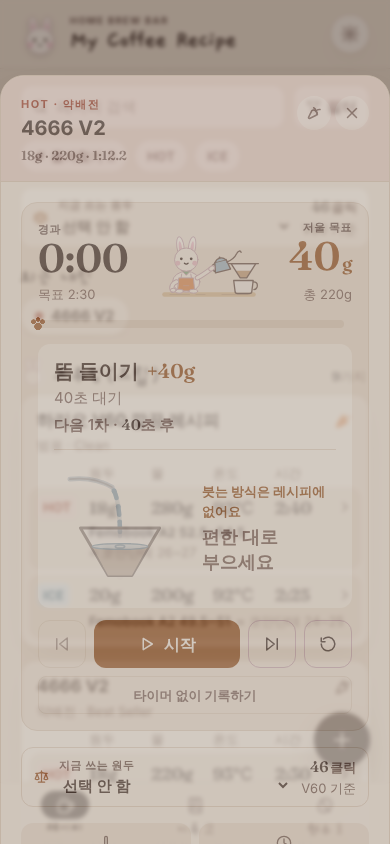
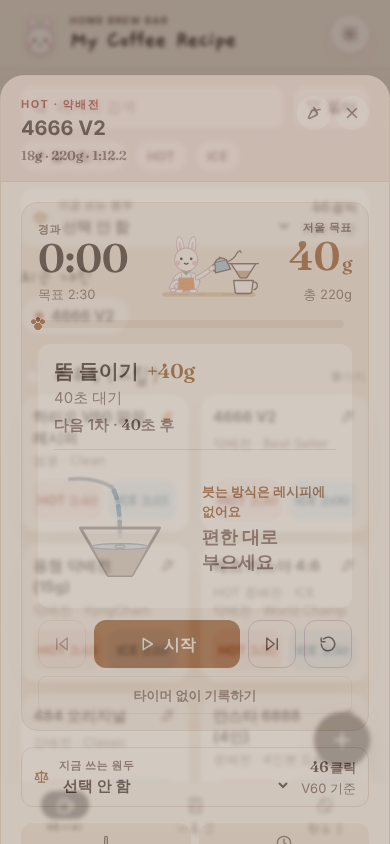
Show the home list as a two-column tile grid
Each recipe card carried a numbers table and grind line, so one recipe took a
third of the screen and reaching the last recipe meant several swipes. Tiles
now hold only what picking needs: title, roast/tag, and HOT/ICE buttons with
brew time that open that version. Numbers and grind live in the detail sheet.
All nine recipes fit in about one screen; a smoke step guards that.

Claude-Session: https://claude.ai/code/session_01ChT9Fi3R7WbLUxPGF7Jcno

diff --git a/src/components/RecipeCard.tsx b/src/components/RecipeCard.tsx
@@ -2,24 +2,19 @@ import type { Recipe } from '../types';
 import type { RecipeFamily } from '../lib/filter';
 import { formatSec } from '../lib/brew';
 import { roastLabel } from '../lib/labels';
-import type { Calibration, GrinderProfile } from '../lib/grinders';
 import { Icon } from './Icon';
-import { GrindSetting } from './GrindSetting';
 
 interface Props {
   family: RecipeFamily;
   favorite: boolean;
   onOpen: (recipeId: string) => void;
   onToggleFavorite: () => void;
-  /** 내가 쓰는 그라인더. 레시피 값을 이 그라인더 기준으로 환산해 보여준다. */
-  myGrinder: GrinderProfile | undefined;
-  calibration: Calibration;
 }
 
 const serveLabel = (r: Recipe) => (r.serve === 'hot' ? 'HOT' : 'ICE');
 
 /** 버전마다 배전도가 같으면 하나만, 다르면 버전별로 밝힌다 (카스야 4:6 은 HOT 중배전, ICE 약배전) */
-function metaLine(family: RecipeFamily): string[] {
+function metaLine(family: RecipeFamily): string {
   const { variants } = family;
   const roasts = new Set(variants.map((r) => r.roast));
   const parts =
@@ -28,102 +23,69 @@ function metaLine(family: RecipeFamily): string[] {
       : variants.map((r) => `${serveLabel(r)} ${roastLabel(r.roast)}`);
   const tag = variants[0]!.tag;
   if (tag) parts.push(tag);
-  return parts;
+  return parts.join(' · ');
 }
 
-/** 라벨 줄과 버전 줄이 같은 칸을 쓰도록 한 곳에서 정한다 */
-const GRID = 'grid grid-cols-[3rem_repeat(4,minmax(0,1fr))_1rem] items-center gap-x-1';
-
 /**
- * 홈 목록의 카드 하나 = 레시피 하나(HOT/ICE 버전 묶음).
+ * 홈 목록의 타일 하나 = 레시피 하나(HOT/ICE 버전 묶음). 두 줄 격자로 놓인다.
  *
- * 전에는 버전마다 한 줄이라 같은 제목이 목록 위아래에 두 번 나왔고, 한 줄에 제목·메타·수치·분쇄도가
- * 같은 크기로 네다섯 줄 쌓여 무엇이 무엇인지 읽히지 않았다. 지금은
- * - 제목은 한 번, 위에 크게
- * - 수치는 '원두 · 물 · 온도 · 시간' 라벨 아래 표로 — HOT 과 ICE 가 같은 칸에 서서 바로 비교된다
- * - 분쇄도는 수치 아래 한 줄 (환산값 옆에 원본을 늘 남긴다)
- * 버전 줄 전체가 그 버전의 상세를 여는 버튼이다.
+ * 목록은 **고르는** 곳이라 타일에는 고르는 데 필요한 것만 둔다: 제목, 배전도·태그, 그리고 버전 단추
+ * (HOT/ICE 와 걸리는 시간). 수치·분쇄도·기구는 상세 시트에 있다 — 그것까지 목록에 올리면 레시피 하나가
+ * 화면 3분의 1을 차지해 첫 레시피에서 끝 레시피까지 여러 번 넘겨야 했다. 지금은 9개가 한 화면 남짓이다.
+ *
+ * 버전 단추가 그 버전의 상세를 바로 연다. 제목은 첫 버전을 연다.
  */
-export function RecipeCard({ family, favorite, onOpen, onToggleFavorite, myGrinder, calibration }: Props) {
+export function RecipeCard({ family, favorite, onOpen, onToggleFavorite }: Props) {
   const first = family.variants[0]!;
   const custom = family.variants.some((r) => r.custom);
   return (
-    <article className="overflow-hidden rounded-2xl border border-line bg-card shadow-card">
-      <div className="flex items-start gap-2 px-4 pt-3.5">
-        <div className="min-w-0 flex-1">
-          <h3 className="text-[17px] leading-snug font-bold text-ink">
-            <button
-              type="button"
-              onClick={() => onOpen(first.id)}
-              className="text-left outline-none hover:text-crema focus-visible:text-crema"
-            >
-              {family.title}
-            </button>
-          </h3>
-          <p className="mt-0.5 text-xs text-ink-soft">
-            {metaLine(family).join(' · ')}
-            {custom && <span className="font-bold text-sage"> · 내 레시피</span>}
-          </p>
-        </div>
+    <article className="flex min-h-[8rem] flex-col rounded-2xl border border-line bg-card p-3 shadow-card">
+      <div className="flex items-start gap-1">
+        <h3 className="min-w-0 flex-1 text-[15px] leading-snug font-bold text-ink">
+          <button
+            type="button"
+            onClick={() => onOpen(first.id)}
+            className="line-clamp-2 text-left break-keep outline-none hover:text-crema focus-visible:text-crema"
+          >
+            {family.title}
+          </button>
+        </h3>
         <button
           type="button"
           onClick={onToggleFavorite}
           aria-pressed={favorite}
           aria-label={`${family.title} 즐겨찾기 ${favorite ? '해제' : '추가'}`}
-          className={`-mt-1.5 -mr-2 rounded-lg p-2 transition-colors ${favorite ? 'animate-hop text-carrot' : 'text-ink-faint hover:text-ink-soft'}`}
+          className={`-mt-1.5 -mr-1.5 shrink-0 rounded-lg p-1.5 transition-colors ${favorite ? 'animate-hop text-carrot' : 'text-ink-faint hover:text-ink-soft'}`}
         >
           {/* 당근 = 즐겨찾기. 연표에서 켜진 칸에 당근이 놓이는 것과 같은 말 */}
-          <Icon name="carrot" size={20} filled={favorite} />
+          <Icon name="carrot" size={18} filled={favorite} />
         </button>
       </div>
+      <p className="mt-1 line-clamp-2 text-xs leading-snug break-keep text-ink-soft">
+        {metaLine(family)}
+        {custom && <span className="font-bold text-sage"> · 내 레시피</span>}
+      </p>
 
-      <div className="px-2 pt-2 pb-2">
-        <div className={`${GRID} px-2 pb-1 text-xs text-ink-faint`} aria-hidden="true">
-          <span />
-          <span>원두</span>
-          <span>물</span>
-          <span>온도</span>
-          <span>시간</span>
-          <span />
-        </div>
-        <ul className="space-y-1">
-          {family.variants.map((r) => {
-            const hot = r.serve === 'hot';
-            return (
-              <li key={r.id}>
-                <button
-                  type="button"
-                  onClick={() => onOpen(r.id)}
-                  aria-label={`${r.title} ${serveLabel(r)} 열기`}
-                  className="w-full rounded-xl bg-well px-2 py-2 text-left transition-colors hover:bg-crema-soft focus-visible:bg-crema-soft focus-visible:outline-none"
-                >
-                  <span className={GRID}>
-                    <span
-                      className={`justify-self-start rounded-md px-1.5 py-0.5 text-xs font-bold ${hot ? 'bg-hot-soft text-hot' : 'bg-ice-soft text-ice'}`}
-                    >
-                      {serveLabel(r)}
-                    </span>
-                    <span className="num text-[17px] text-ink">{r.beanG}g</span>
-                    <span className="num text-[17px] text-ink">{r.waterG}g</span>
-                    <span className="num text-[17px] text-ink">{r.tempC}℃</span>
-                    <span className="num text-[17px] text-ink">{formatSec(r.totalSec)}</span>
-                    <Icon name="chevron" size={16} className="text-ink-faint" />
-                  </span>
-                  <span className="mt-1 block pl-[3.25rem] text-xs leading-snug text-ink-soft">
-                    <GrindSetting
-                      settings={r.grinderSettings ?? []}
-                      myGrinder={myGrinder}
-                      calibration={calibration}
-                      fallback={r.grind}
-                      compact
-                    />
-                  </span>
-                </button>
-              </li>
-            );
-          })}
-        </ul>
-      </div>
+      <ul className="mt-auto flex gap-1.5 pt-2.5">
+        {family.variants.map((r) => {
+          const hot = r.serve === 'hot';
+          return (
+            <li key={r.id} className="min-w-0 flex-1">
+              <button
+                type="button"
+                onClick={() => onOpen(r.id)}
+                aria-label={`${r.title} ${serveLabel(r)} 열기`}
+                className={`flex h-10 w-full items-center justify-center gap-1 rounded-xl text-xs font-bold transition hover:opacity-80 ${
+                  hot ? 'bg-hot-soft text-hot' : 'bg-ice-soft text-ice'
+                }`}
+              >
+                {serveLabel(r)}
+                <span className="num font-semibold">{formatSec(r.totalSec)}</span>
+              </button>
+            </li>
+          );
+        })}
+      </ul>
     </article>
   );
 }

diff --git a/src/App.tsx b/src/App.tsx
@@ -331,7 +331,8 @@ export default function App() {
                     <span className="num font-bold text-ink">{g.families.length}</span>가지
                   </p>
                 </div>
-                <div className="space-y-3">
+                {/* 두 줄 격자 — 레시피 9개가 한 화면 남짓에 든다 */}
+                <div className="grid grid-cols-2 gap-2.5 md:grid-cols-3">
                   {g.families.map((family) => {
                     const fav = isFavoriteFamily(family, favorites);
                     return (
@@ -339,8 +340,6 @@ export default function App() {
                         key={family.key}
                         family={family}
                         favorite={fav}
-                        myGrinder={myGrinderProfile}
-                        calibration={effectiveCalibration}
                         onOpen={(id) => setSheet({ kind: 'detail', id })}
                         onToggleFavorite={() => setFamilyFavorite(family.variants.map((r) => r.id), !fav)}
                       />

diff --git a/CLAUDE.md b/CLAUDE.md
@@ -81,17 +81,18 @@
 - **카테고리 탭이 없습니다.** `groupRecipes()` 가 카테고리별 **구역**을 만들고, 레시피가 없는 카테고리는 구역을
   만들지 않습니다 (빈 탭이 한 줄을 차지하던 것을 없앴습니다). 구역 안에서는 즐겨찾기가 먼저 옵니다. `Filters` 에
   `category` 가 없고, 레시피 폼의 기본 분류는 `drip` 입니다.
-- **카드 하나 = 레시피 하나(HOT/ICE 묶음)** (`RecipeCard`, `familiesOf()`): `family` 가 같은 버전을 한 카드에 묶고
-  HOT 을 먼저 둡니다. 제목은 한 번, 그 아래 '원두 · 물 · 온도 · 시간' 라벨 줄과 버전마다 한 줄씩 같은 칸의 수치,
-  수치 아래 내 그라인더 분쇄도(원본 곁에). 버전 줄 전체가 그 버전 상세를 여는 버튼입니다. 같은 제목이 목록에 두 번
-  나오던 것과, 한 줄에 제목·메타·수치·분쇄도가 같은 크기로 쌓여 읽히지 않던 것을 고친 모양입니다 — 버전마다 한 줄로
-  되돌리지 마세요. 기구·비율·메모는 상세에만 있습니다. 조건으로 걸러진 버전은 카드에서도 빠지고, 카드 제목은 남은 첫
-  버전의 제목입니다. 카드의 당근은 묶음 전체를 켜고 끕니다(버전 하나라도 즐겨찾기면 켜진 것으로 보고 앞에 섭니다).
+- **타일 하나 = 레시피 하나(HOT/ICE 묶음), 두 줄 격자** (`RecipeCard`, `familiesOf()`): `family` 가 같은 버전을 한
+  타일에 묶고 HOT 을 먼저 둡니다. 타일에는 고르는 데 필요한 것만 — 제목, 배전도·태그, 버전 단추(HOT/ICE 와 걸리는
+  시간). 버전 단추가 그 버전 상세를 바로 엽니다. 수치·분쇄도·기구는 **상세에만** 있습니다 — 목록에 올리면 레시피
+  하나가 화면 3분의 1을 차지해 첫 레시피에서 끝까지 여러 번 넘겨야 했습니다(소유자 피드백). 9개가 한 화면 남짓이어야
+  하고, 스모크가 지킵니다. 버전마다 한 줄로, 또는 수치 표가 든 큰 카드로 되돌리지 마세요. 한글 제목은 `break-keep`.
+  조건으로 걸러진 버전은 타일에서도 빠지고, 타일 제목은 남은 첫 버전의 제목입니다. 타일의 당근은 묶음 전체를 켜고
+  끕니다(버전 하나라도 즐겨찾기면 켜진 것으로 보고 앞에 섭니다).
 - **최근 내린** (`recentRecipes()`): 기록에서 최신순으로 레시피마다 하나, 지워진 레시피는 빼고 넷까지. 조건을 걸면
   숨깁니다. 늘 내리는 레시피로 가는 가장 짧은 길이라 목록 위에 둡니다.
 - 필터는 두 층: 자주 쓰는 조건(즐겨찾기, HOT, ICE)은 칩으로 바로 켜고 끄고, 드리퍼·배전도는 "필터" 로 펼칩니다.
   펼침에서 건 조건은 접어도 칩으로 남아 한 번에 풀립니다. 드리퍼를 고르면 드리퍼가 없는 카테고리는 빠집니다.
-- "레시피 추가" 는 탭 바 위에 뜨는 둥근 + FAB 입니다(글자 단추는 카드 오른쪽 수치를 가렸습니다). 목록 아래 여백(`pb-32`)을 줄이면 마지막 줄의 별이 가립니다.
+- "레시피 추가" 는 탭 바 위에 뜨는 둥근 + FAB 입니다(글자 단추는 오른쪽 타일을 가렸습니다). 목록 아래 여백(`pb-32`)을 줄이면 마지막 줄의 별이 가립니다.
 - **선은 바깥에만.** 카드·시트·입력창·보조 버튼은 `border-line` 하나로 둘러싸고, 그 **안의** 칸(수치 표, 단계 카드,
   마무리 요약)은 테두리 없이 `bg-well` 면 색 차이로만 구분합니다. 상자 안에 또 상자를 그리면 정보보다 선이 먼저
   읽힙니다. 점선은 빈 상태 안내에만 씁니다.
